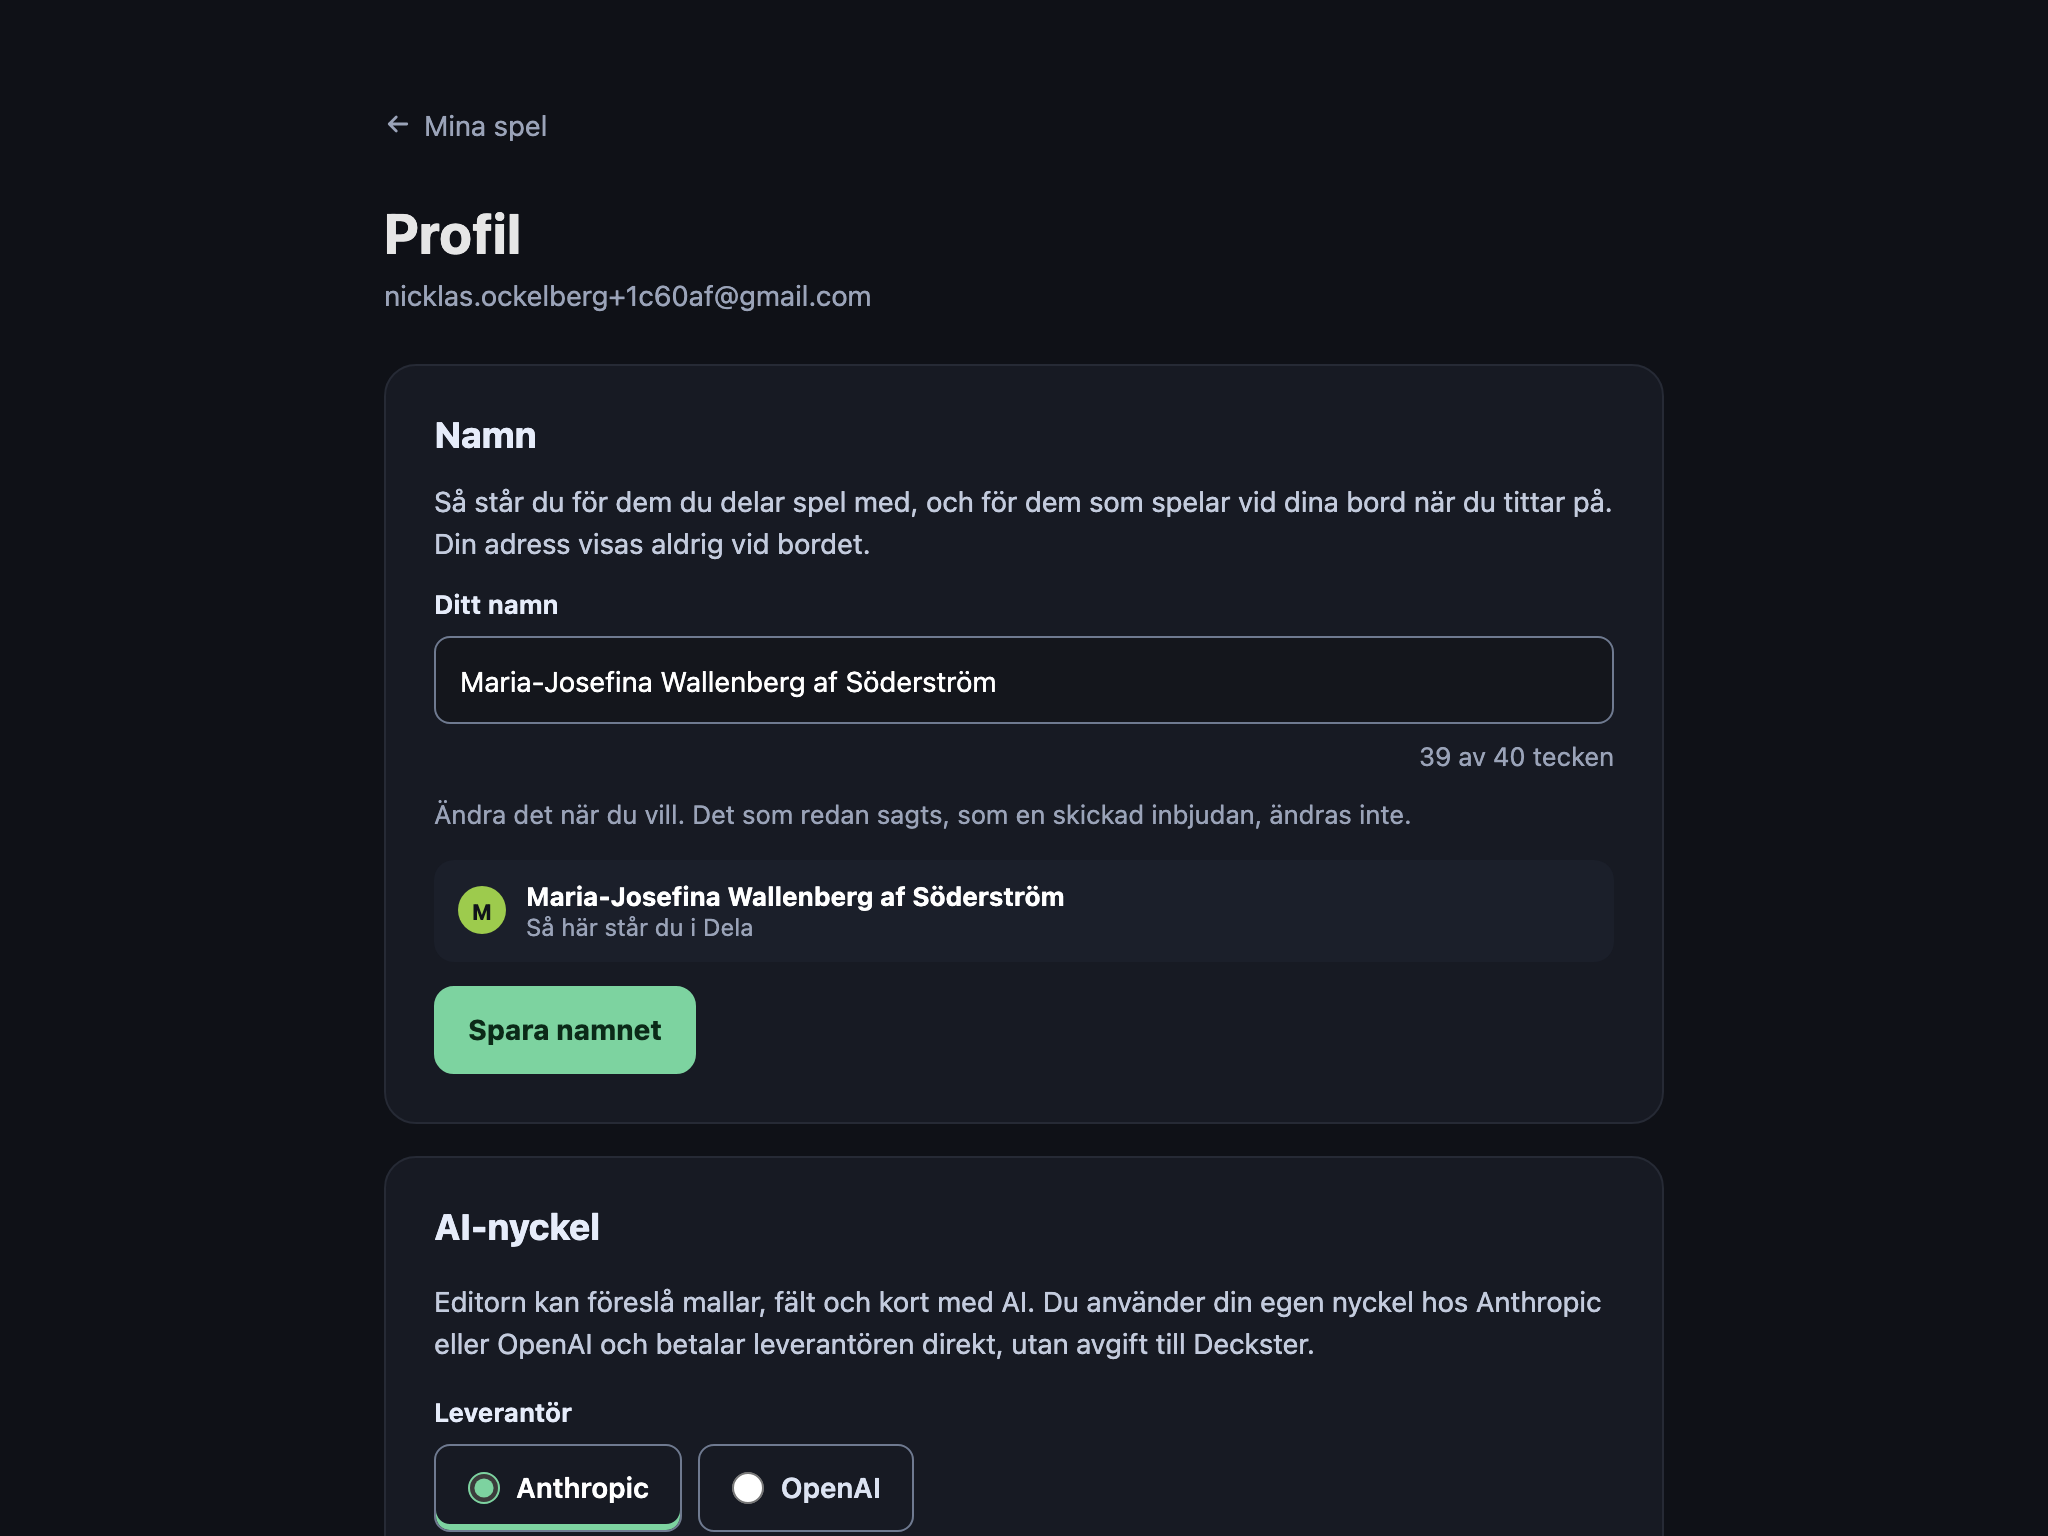
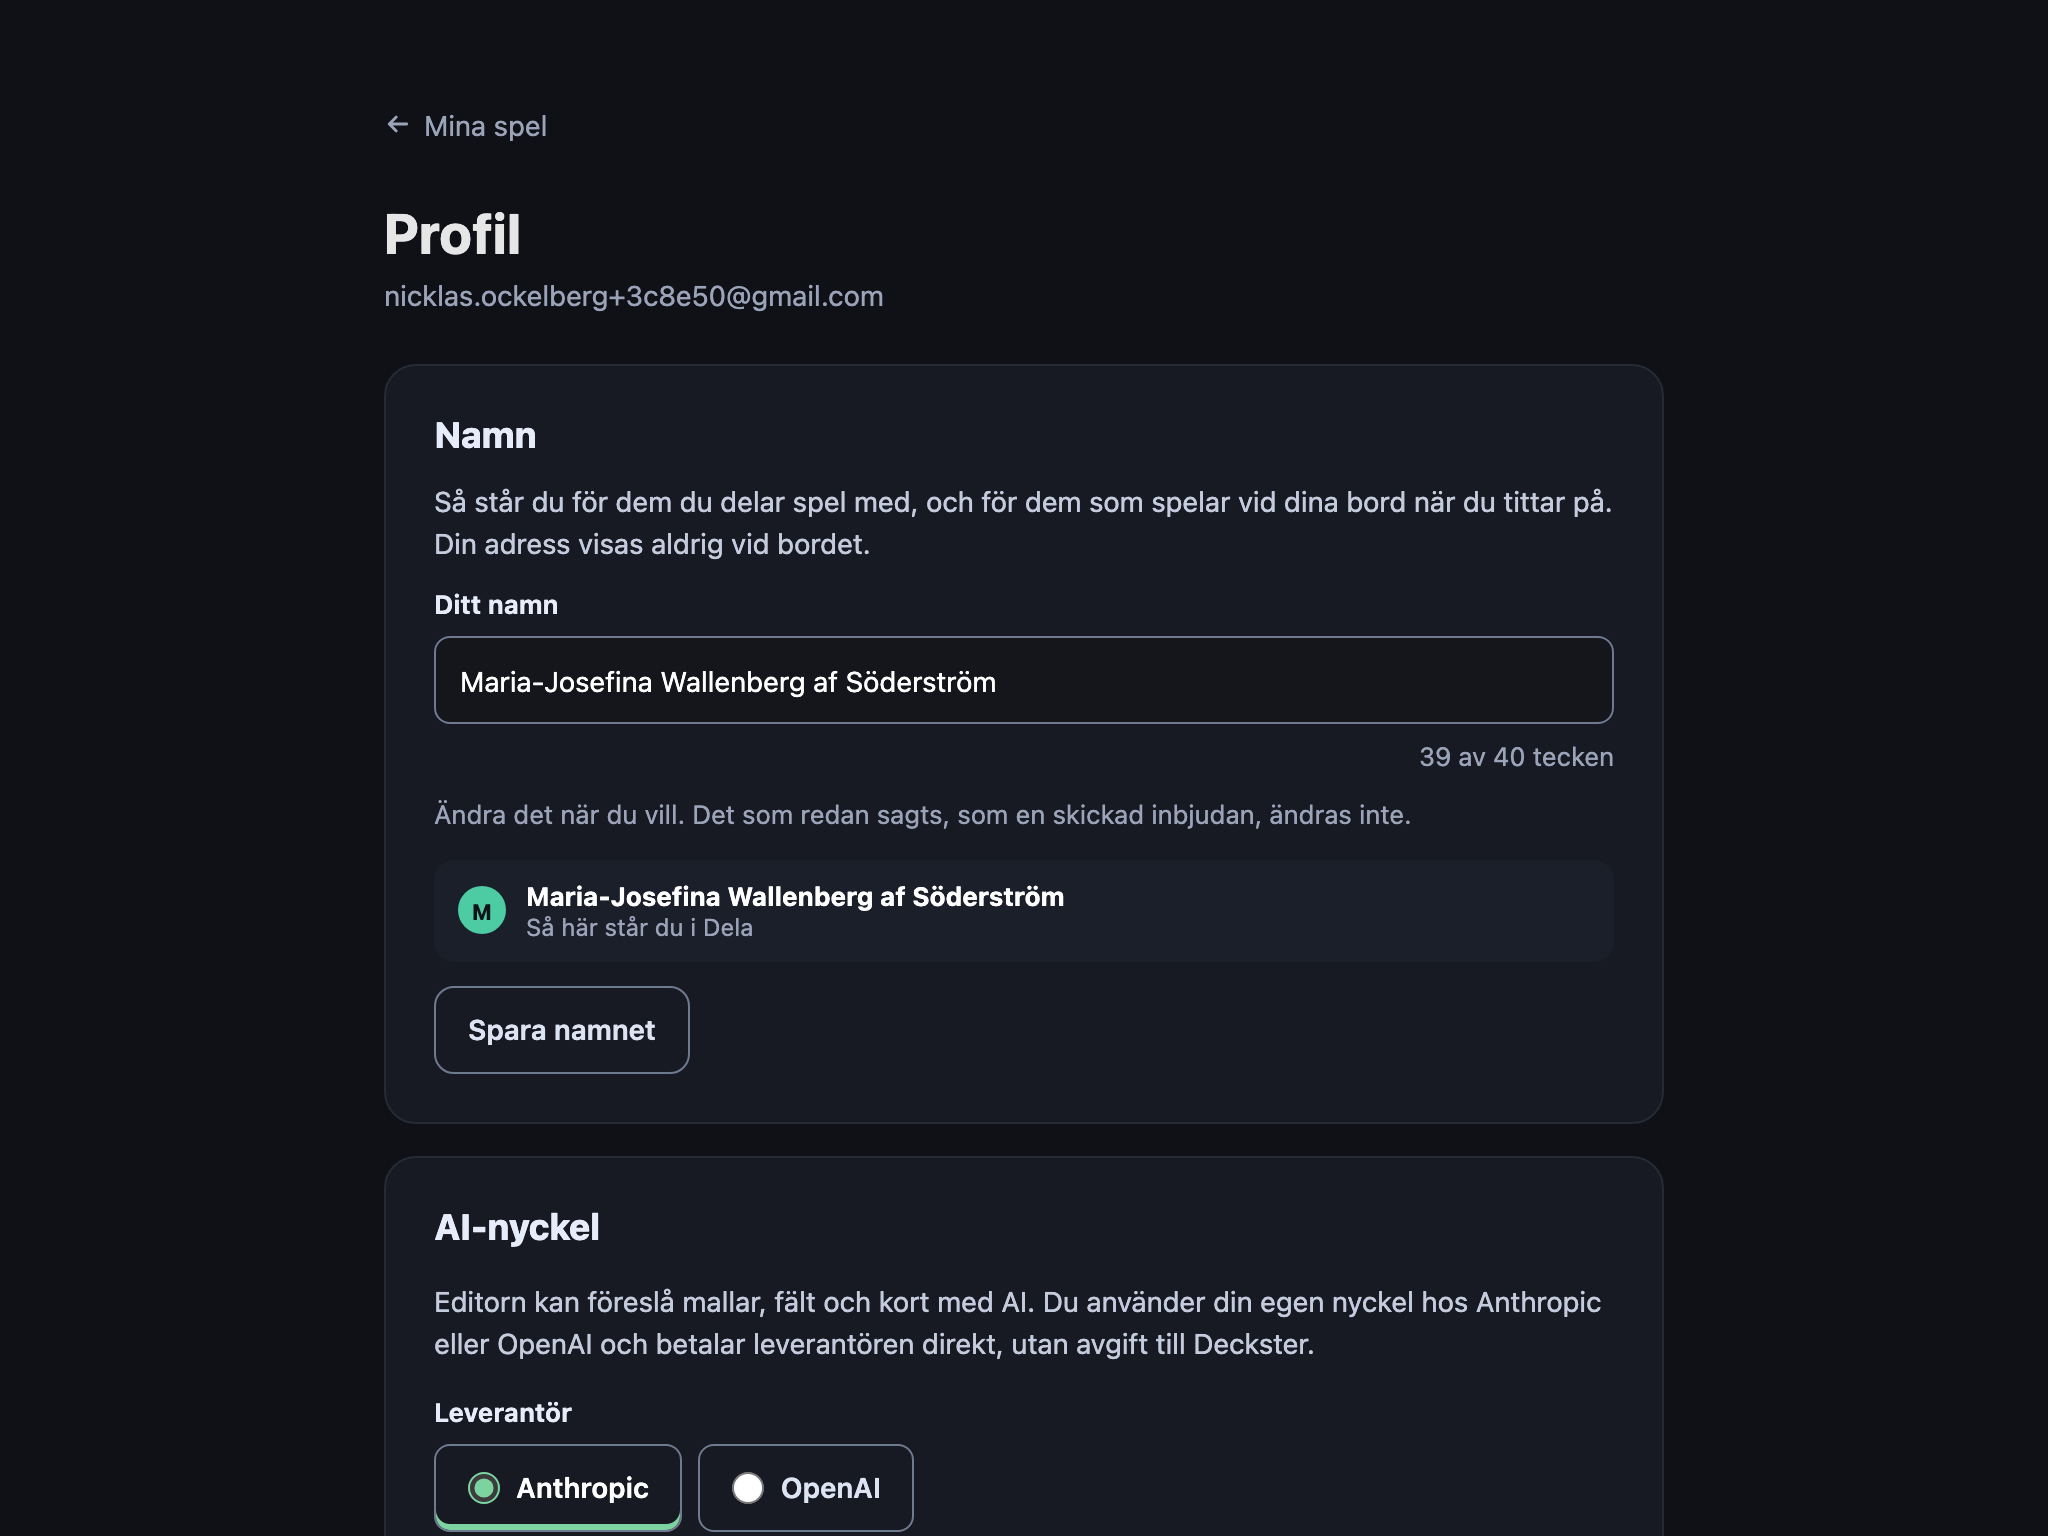
Profil: «Spara namnet» är en kontur, så att sidans enda fyllning står kvar (L13, #1254)

Changed region(s): [[0.1875, 0.5625, 0.3438, 0.7188], [0.3125, 0.1875, 0.4375, 0.2188]]

diff --git a/packages/web/src/account/NameCard.tsx b/packages/web/src/account/NameCard.tsx
@@ -65,7 +65,9 @@ export function NameCard({ http, email, initial }: { http: string; email: string
           </p>
         )}
         <div className="byd-profile-row">
-          <button type="submit" className="byd-primary byd-profile-button" disabled={state === 'busy'}>
+          {/* The outline, not the fill: the profile's one filled button is the AI key's, or the way back
+              to the game (L13), and a name is saved beside it rather than instead of it. */}
+          <button type="submit" className="byd-secondary byd-profile-button" disabled={state === 'busy'}>
             {t('profile.name.save')}
           </button>
           {state === 'saved' && <p className="byd-profile-ok-line">{t('profile.name.saved')}</p>}

diff --git a/packages/web/test/profile-page.test.tsx b/packages/web/test/profile-page.test.tsx
@@ -221,7 +221,7 @@ describe('the profile page', () => {
       </Language>,
     )
     expect(await screen.findByRole('heading', { level: 1, name: 'Profile' })).toBeTruthy()
-    expect(screen.getAllByRole('heading', { level: 2 }).map((h) => h.textContent)).toEqual(['AI key', 'Language', 'Account'])
+    expect(screen.getAllByRole('heading', { level: 2 }).map((h) => h.textContent)).toEqual(['Name', 'AI key', 'Language', 'Account'])
     expect(screen.getByRole('button', { name: 'Save and test' })).toBeTruthy()
   })
 })

diff --git a/DESIGN-BESLUT.md b/DESIGN-BESLUT.md
@@ -8218,6 +8218,7 @@ Ett namn, eller inget, är svaret; att tömma fältet i Profil är också ett sv
 **Kortet «Namn»** står först i Profil: fältet, en rad om vad namnet är till för, och raden namnet ger i Dela, ritad medan designern skriver.
 Utan namn säger kortet vad det betyder: adressen i Dela och i inbjudningar, och «spelets ägare» i kvotraden.
 Nära taket räknar fältet tecknen.
+«Spara namnet» är en kontur och inte prototypens fyllda knapp: Profils enda fyllda knapp är AI-nyckelns, eller vägen tillbaka till spelet (L13).
 
 **Namnet är högst 40 tecken,** trimmat, på en rad, räknat som läsaren räknar dem (en emoji är ett tecken), och tomt är inget namn.
 Förslaget och taket står i `account-name.ts` och nås av sidorna genom `@byd/server/doc`, så att steget, bandet, kortet och servern säger samma sak.
